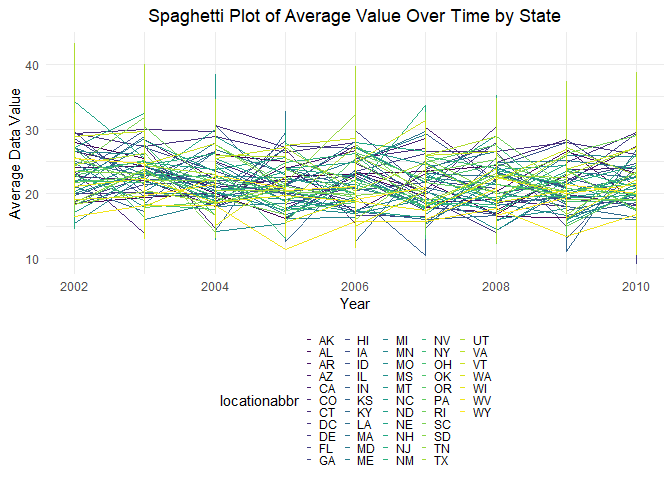
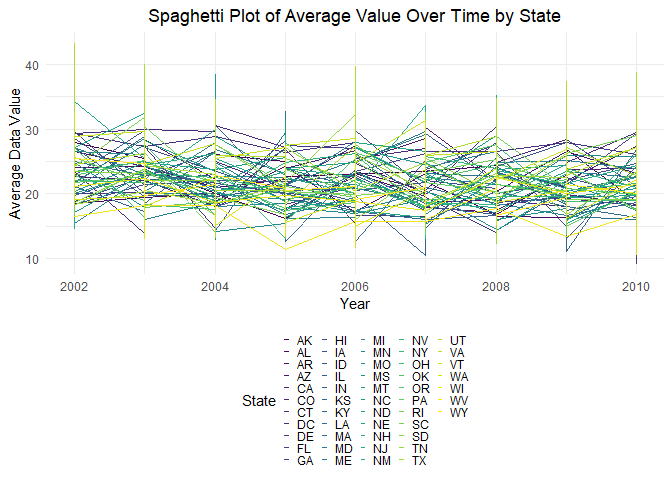
I am making some changes. I noticed that I didn't group correctly for my spaghetti plot so I am fixing that code, changing the lab of the legend, and updating my interpretations. I fixed my two-panel plot because I didn't include the locations so I am doing that using group in the aesthetic. I'm als

Changed region(s): [[0.3125, 0.6875, 0.75, 0.9688]]

diff --git a/p8105_hw3_sjk2254.md b/p8105_hw3_sjk2254.md
@@ -263,6 +263,7 @@ lm_df |>
   labs(
     x = "Year",
     y = "Average Data Value",
+    color = "State",
     title = "Spaghetti Plot of Average Value Over Time by State"
   ) +
   theme(plot.title = element_text(hjust = 0.5)) +
@@ -272,21 +273,23 @@ lm_df |>
 ![](p8105_hw3_sjk2254_files/figure-gfm/unnamed-chunk-13-1.png)<!-- -->
 
 The “spaghetti” plot above shows the average percentage of individuals
-that responded “Excellent” over time within a state. You can see that
-there is a lot of fluctuation in all the states and there isn’t an
-average greater than 30%.
+that responded “Excellent” over time within a state from 2002 to 2010.
+You can see that there is a lot of fluctuation in all the states but it
+is mostly centered around 25%. This indicates that the average response
+for “Excellent” for the states was greater than approximately 10% and
+smaller than approximately 45%.
 
 ``` r
 # making a two-panel plot
 
 brfss_df |> 
   filter(year %in% c(2006, 2010), locationabbr == "NY") |> 
-  ggplot(aes(x = data_value, fill = response)) +
-  geom_histogram(bins = 20, position = "dodge") +
+  ggplot(aes(x = response, y = data_value, group = locationdesc, color = locationdesc)) +
+  geom_line() +
   facet_wrap(~year, nrow = 1) +
   labs(
-    x = "Data Value",
-    y = "Frequency",
+    x = "Responses",
+    y = "Data Value",
     title = "Distribution of Data Value by Response in NY State"
   ) +
   theme(plot.title = element_text(hjust = 0.5))
@@ -296,8 +299,9 @@ brfss_df |>
 
 The two-panel plot above shows the distribution of data value for
 responses (“Poor” to “Excellent”) among locations in NY state. You can
-see that on average, 2010 (right side) had higher data values than 2006
-(left side).
+see that the majority of responses was “Good” or “Very good” with values
+around 35%. Additionally, 2010 had higher values of “Very good” compared
+to 2006. 2010 also had more locations than 2006.
 
 ## Problem 3
 
@@ -350,7 +354,8 @@ dem_df =
     education = case_match(education,
       1 ~ "less than high school",
       2 ~ "high school equivalent",
-      3 ~ "more than high school")
+      3 ~ "more than high school"),
+    education = factor(education, levels = c("less than high school","high school equivalent","more than high school"), ordered = TRUE)
     ) |> 
   filter(age >= "21") |> 
   drop_na()
@@ -377,21 +382,24 @@ The two datasets were merged based on their id’s which were labeled
 ac_dem_df |> 
   group_by(sex, education) |>
   summarise(count = n())|> 
+  pivot_wider(
+    names_from = education,
+    values_from = count
+  ) |> 
   knitr::kable()
 ```
 
-| sex    | education              | count |
-|:-------|:-----------------------|------:|
-| female | high school equivalent | 33120 |
-| female | less than high school  | 40320 |
-| female | more than high school  | 84960 |
-| male   | high school equivalent | 50400 |
-| male   | less than high school  | 38880 |
-| male   | more than high school  | 80640 |
+| sex    | less than high school | high school equivalent | more than high school |
+|:-------|----------------------:|-----------------------:|----------------------:|
+| female |                 40320 |                  33120 |                 84960 |
+| male   |                 38880 |                  50400 |                 80640 |
 
 The table above shows the number of men and women in each education
 category. You can see that most males and females have more than a high
-school education.
+school education. Notable, when looking at individuals with less than
+high school education, females had higher rates while when looking at
+individuals with high school equivalent education, males had higher
+rates.
 
 ``` r
 # visualizing the age distribution
@@ -413,7 +421,8 @@ The plot above shows the age distributions for men and women in each
 education category. You can see that in all categories, there’s no age
 greater than 80. The median age for females in the educational
 categories are greater than males except for the “more than high school”
-category.
+category. Additionally, the “high school equivalent” level has the
+greatest difference in distribution between the females and males.
 
 ``` r
 # male vs. female per education plot
@@ -423,7 +432,7 @@ ac_dem_df |>
   summarise(total_activity = sum(mims_values)) |> 
   ggplot(aes(x = age, y = total_activity, color = sex)) +
   geom_point() +
-  geom_smooth(method = "lm", se = FALSE) +
+  geom_smooth(aes(group = sex), se = FALSE) +
   facet_wrap(~education) +
   labs(
     x = "Age",
@@ -441,7 +450,7 @@ participant. You can see that in all education levels, there was a
 negative trend showing that as age increases, total activity decreases.
 This was similar for both women and men. On average, females have higher
 total activity than men except in the “less than high school” education
-category where at roughly age 45, there’s a switch and males start to
+category where at roughly age 40, there’s a switch and males start to
 have higher values.
 
 ``` r
@@ -473,7 +482,8 @@ to sleeping patterns. In the early hours, most people are asleep, then
 they get up and start exercising. This then steadies off due to people’s
 general exercise habits then there’s a decrease as people go to sleep.
 Overall, the more than high school education group has more MIMS values,
-on average, compared to the other two educational groups. Between the
-sex, there is fairly similar patterns except in the more than high
-school education level where the males have a noticeable greater
-increase in MIMS values than females, during the later minutes.
+on average, compared to the other two educational groups. This could be
+due to work schedules where people only have time before and after work.
+Between the sex, there is fairly similar patterns except in the more
+than high school education level where the males have a noticeable
+greater increase in MIMS values than females, during the later minutes.
